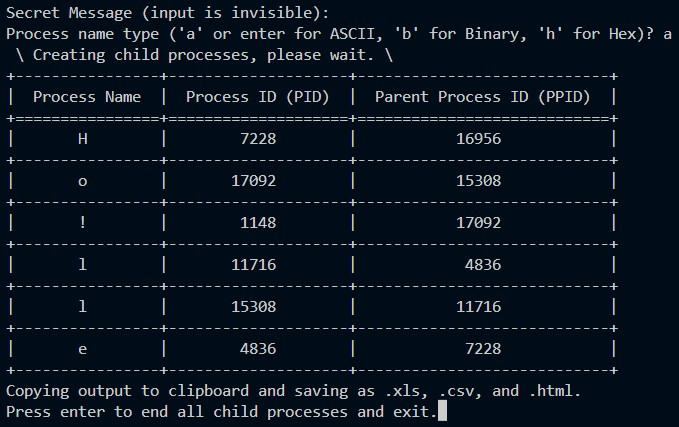
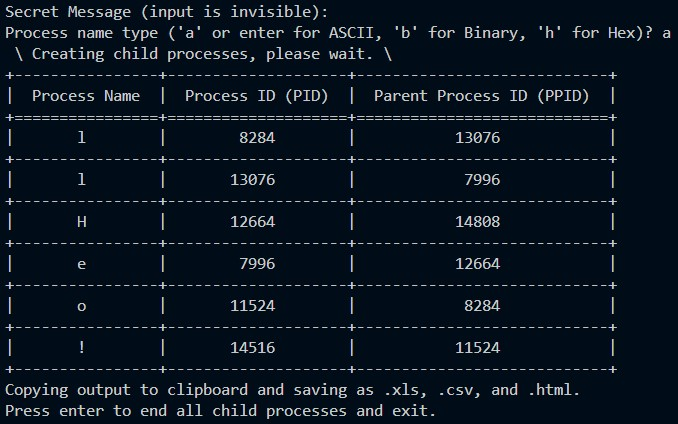
update examples

diff --git a/output.html b/output.html
@@ -10,39 +10,39 @@
   <tbody>
     <tr>
       <th>0</th>
-      <td>H</td>
-      <td>7228</td>
-      <td>16956</td>
+      <td>l</td>
+      <td>8284</td>
+      <td>13076</td>
     </tr>
     <tr>
       <th>1</th>
-      <td>o</td>
-      <td>17092</td>
-      <td>15308</td>
+      <td>l</td>
+      <td>13076</td>
+      <td>7996</td>
     </tr>
     <tr>
       <th>2</th>
-      <td>!</td>
-      <td>1148</td>
-      <td>17092</td>
+      <td>H</td>
+      <td>12664</td>
+      <td>14808</td>
     </tr>
     <tr>
       <th>3</th>
-      <td>l</td>
-      <td>11716</td>
-      <td>4836</td>
+      <td>e</td>
+      <td>7996</td>
+      <td>12664</td>
     </tr>
     <tr>
       <th>4</th>
-      <td>l</td>
-      <td>15308</td>
-      <td>11716</td>
+      <td>o</td>
+      <td>11524</td>
+      <td>8284</td>
     </tr>
     <tr>
       <th>5</th>
-      <td>e</td>
-      <td>4836</td>
-      <td>7228</td>
+      <td>!</td>
+      <td>14516</td>
+      <td>11524</td>
     </tr>
   </tbody>
 </table>

diff --git a/output.md b/output.md
@@ -1,8 +1,8 @@
 |    | Process Name   |   Process ID (PID) |   Parent Process ID (PPID) |
 |---:|:---------------|-------------------:|---------------------------:|
-|  0 | H              |               7228 |                      16956 |
-|  1 | o              |              17092 |                      15308 |
-|  2 | !              |               1148 |                      17092 |
-|  3 | l              |              11716 |                       4836 |
-|  4 | l              |              15308 |                      11716 |
-|  5 | e              |               4836 |                       7228 |
+|  0 | l              |               8284 |                      13076 |
+|  1 | l              |              13076 |                       7996 |
+|  2 | H              |              12664 |                      14808 |
+|  3 | e              |               7996 |                      12664 |
+|  4 | o              |              11524 |                       8284 |
+|  5 | !              |              14516 |                      11524 |
